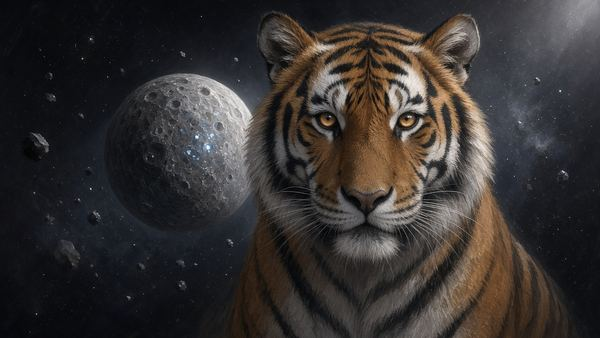
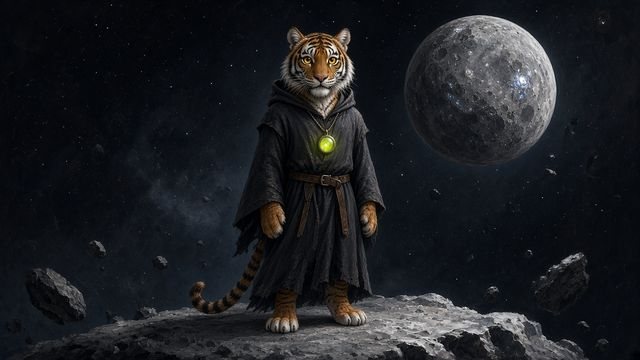
Replace Ceres tiles 1–7 with the full-body set.
Golden Tiger is the seventh piece. Those tiles are 16:9 so the figures are shown whole. Fox Wizard 008–077 stay as they are.

diff --git a/ceres/ceres.css b/ceres/ceres.css
@@ -168,7 +168,16 @@ h1 {
   object-position: center;
 }
 
-.tile.is-drop .frame { box-shadow: inset 0 0 0 1px var(--accent); }
+.tile.is-drop .frame {
+  aspect-ratio: 16 / 9;
+  background: #07080c;
+  box-shadow: inset 0 0 0 1px var(--accent);
+}
+
+.tile.is-drop .frame img {
+  object-fit: contain;
+  object-position: center;
+}
 
 .num {
   display: block;
@@ -316,6 +325,7 @@ figcaption {
 @media (prefers-reduced-motion: no-preference) {
   .frame img { transition: transform 0.45s ease; }
   .tile:hover .frame img { transform: scale(1.03); }
+  .tile.is-drop:hover .frame img { transform: none; }
 }
 
 @media (prefers-reduced-motion: reduce) {
